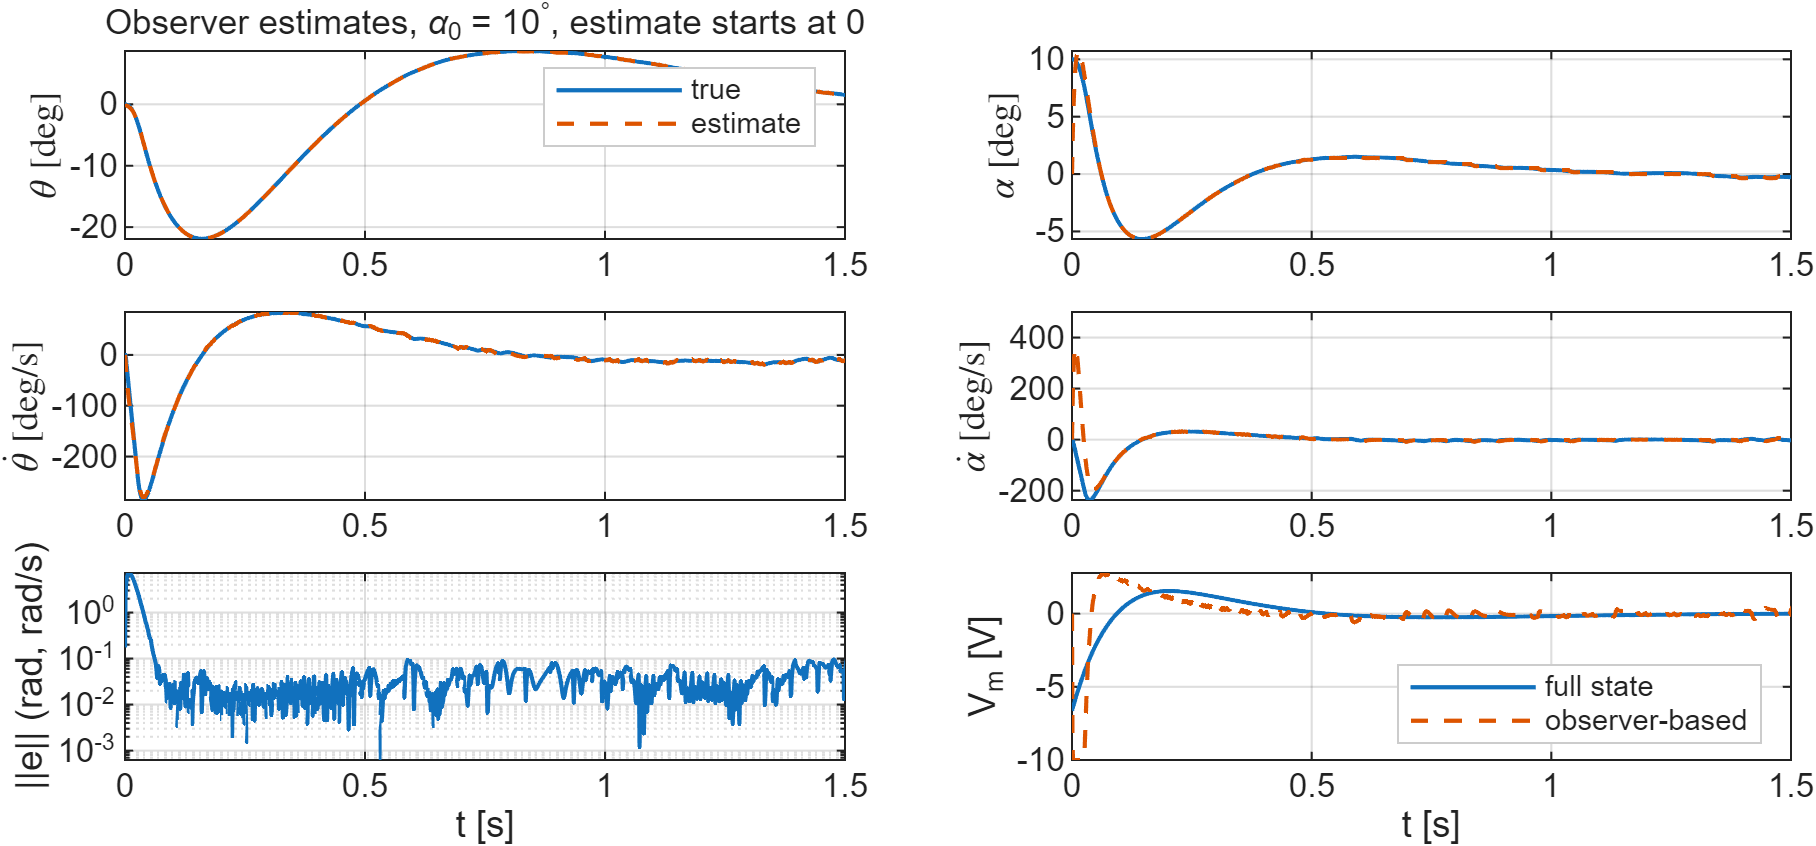
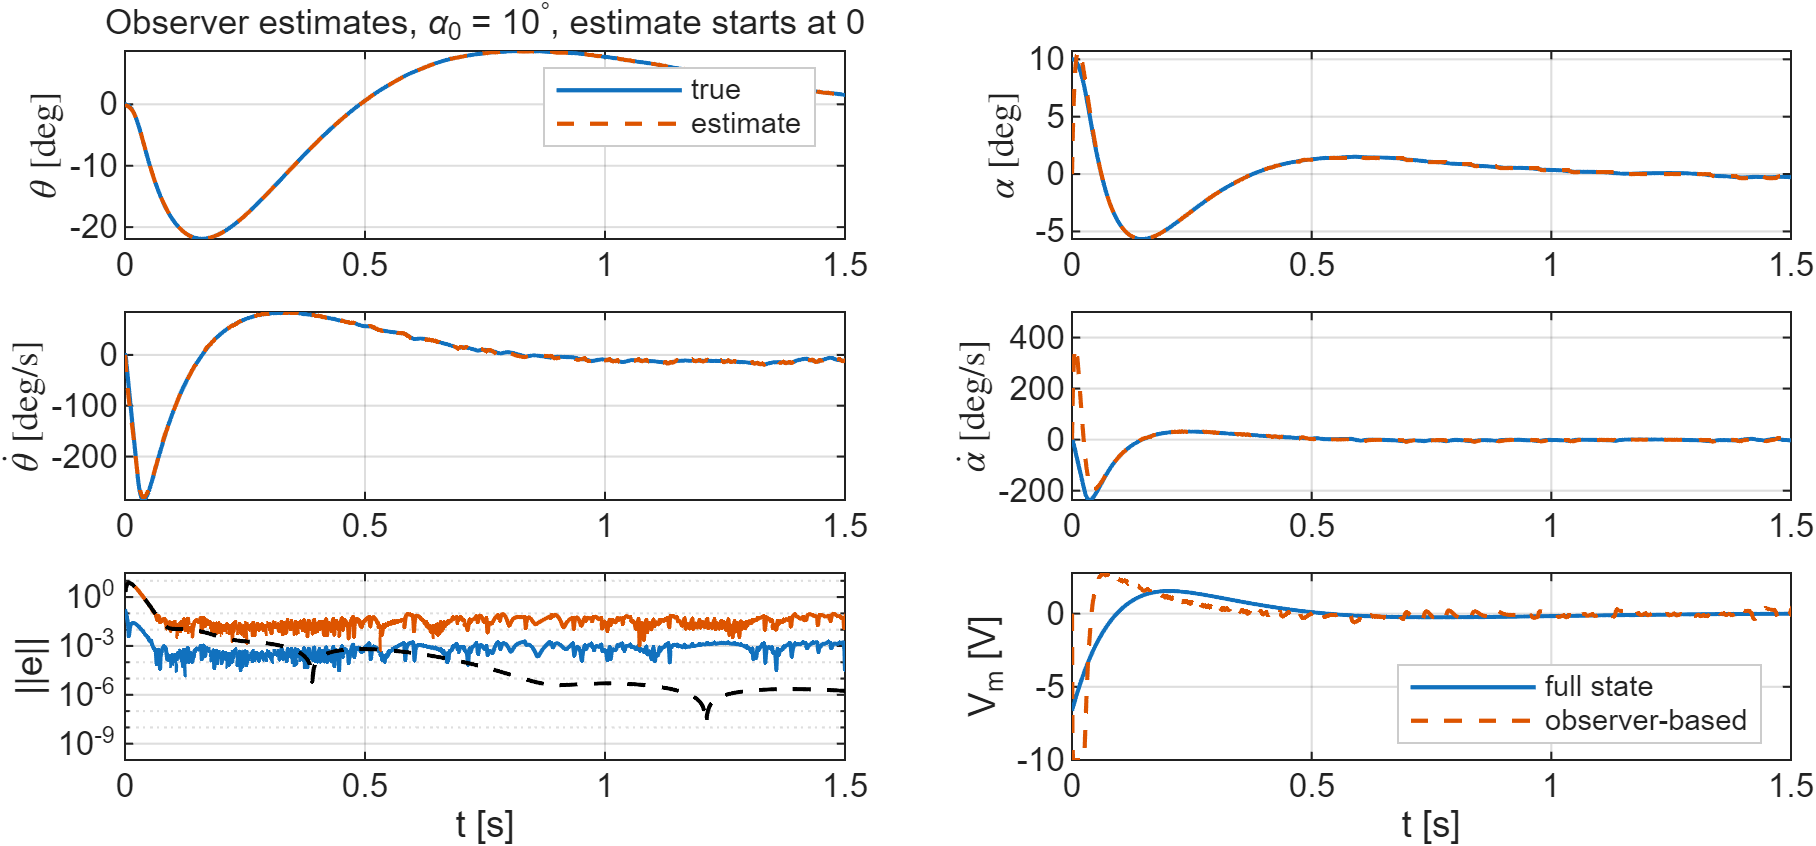
Update logbook, figures, and MATLAB scripts for improved clarity and accuracy; refresh expected results and refine stability margins.

Changed region(s): [[0.0, 0.6454, 0.4626, 0.922]]

diff --git a/report/main.tex b/report/main.tex
@@ -75,7 +75,7 @@ We use the Euler--Lagrange equations of motion derived by G\"afvert~\cite{gafver
 
 % =====================================================================
 \section{System Model}
-The system model is based on the equations of motion given by G\"afvert~\cite{gafvert1998}. The arm angle $\theta$ is measured about the motor shaft and the pendulum angle $\alpha$ is measured from the upright position, so that $\alpha=0$ is the unstable equilibrium (Fig.~\ref{fig:diagram} in the Appendix). The arm is modelled as a uniform rod of mass $m_r$, length $L_r$ and inertia $J_r$ about the motor axis, and the pendulum as a uniform rod of mass $m_p$, length $L_p$, centre-of-mass distance $l_p=L_p/2$ and inertia $J_p$ about its centre of mass. For convenience, the pendulum inertia about its pivot is written as $\bar J_p=J_p+m_pl_p^2$.
+The arm angle $\theta$ is measured about the motor shaft and the pendulum angle $\alpha$ is measured from the upright position, so that $\alpha=0$ is the unstable equilibrium (Fig.~\ref{fig:diagram} in the Appendix). The arm is modelled as a uniform rod of mass $m_r$, length $L_r$ and inertia $J_r$ about the motor axis, and the pendulum as a uniform rod of mass $m_p$, length $L_p$, centre-of-mass distance $l_p=L_p/2$ and inertia $J_p$ about its centre of mass. For convenience, the pendulum inertia about its pivot is written as $\bar J_p=J_p+m_pl_p^2$.
 
 \subsection{Equations of motion}
 The pendulum swings in the plane perpendicular to the arm, and positive $\alpha$ leans against positive arm rotation, so $\alpha$ is measured in the opposite direction to~\cite{gafvert1998}, which reverses the sign of the coupling terms. We assume rigid links, viscous joint friction and negligible motor inductance.
@@ -132,7 +132,7 @@ $k_t, k_m$ & Torque / back-EMF constant & 0.042\,N\,m/A & \cite{xu2023}\\ \hline
 \subsection{Disturbances}
 We model three disturbances: a bump to the pendulum, as a 20\,mN\,m, 20\,ms torque pulse on the pendulum (about a 4.4\,rad/s velocity kick); constant arm drag from the encoder cable or motor friction, as a 2\,mN\,m step; and random unmodelled torques, as sample-held white noise with assumed standard deviations of 0.2 and 0.05\,mN\,m on the arm and pendulum.
 \begin{rw}
-These enter through $\tau_p$ and $\tau_d$ in \eqref{eq:arm}--\eqref{eq:pend}. The pulse represents a firm knock and is the hardest test for the observer, as it only sees the kick in $\alpha$ afterwards. The drag is about 4\% of the 0.05\,N\,m stall torque and a fifth of the 10\,mN\,m Coulomb friction G\"afvert identified on a larger rig~\cite{gafvert1998}. The random torques are assumed, and Section~V-D reports their effect.
+These enter through $\tau_p$ and $\tau_d$ in \eqref{eq:arm}--\eqref{eq:pend}. The pulse represents a firm knock and is the hardest test for the observer, as it only sees the kick in $\alpha$ afterwards. The drag is about 4\% of the 0.05\,N\,m stall torque and a fifth of the 10\,mN\,m Coulomb friction G\"afvert identified on a larger rig~\cite{gafvert1998}. The random torques are assumed. The pulse tests the 15\textdegree{} limit, the drag the steady-state error and the noise the voltage (Section~V-D).
 \end{rw}
 
 \subsection{Sensors and noise}
@@ -170,12 +170,12 @@ which gives the linear model $\dot x=Ax+Bu$, $y=Cx$, with $A=\left[\begin{smallm
 A_{21}&=\frac{m_pgl_p}{\Delta}\begin{bmatrix}0&b\\0&a\end{bmatrix},\quad B_2=\frac{k_t}{R_m\Delta}\begin{bmatrix}\bar J_p\\b\end{bmatrix},\nonumber\\
 A_{22}&=-\frac{1}{\Delta}\begin{bmatrix}\bar J_pd_r&bD_p\\b\,d_r&aD_p\end{bmatrix}.
 \end{align}
-The two encoders measure the arm and pendulum angles only, so $C=[I_2\;\;0_{2\times2}]$ and $D=0$. The regulated output is the arm angle, $z=C_rx$ with $C_r=[1\;\;0\;\;0\;\;0]$. The system therefore has four states but only two measurements, so the angular velocities must be estimated by an observer. Substituting the parameter values, the model becomes
+The two encoders measure the arm and pendulum angles only, so $C=[I_2\;\;0_{2\times2}]$ and $D=0$, and the two velocities must be estimated by an observer. The regulated output is the arm angle, $z=C_rx$ with $C_r=[1\;\;0\;\;0\;\;0]$. Substituting the parameter values, the model becomes
 \begin{equation}
 A=\begin{bmatrix}0&0&1&0\\0&0&0&1\\0&55.15&-2.61&-0.36\\0&168.58&-2.58&-1.11\end{bmatrix},\;
 B=\begin{bmatrix}0\\0\\18.37\\18.16\end{bmatrix}.
 \end{equation}
-The open-loop poles are $0$, $-14.06$, $-1.75$ and $+12.09$\,rad/s. The pole at $+12.09$\,rad/s confirms that the upright equilibrium is unstable, and the pole at the origin reflects that the arm is free to rotate. The transfer function from $V_m$ to $\theta$ also has a right-half-plane zero at $+10.31$\,rad/s: the arm first moves the wrong way, to tip the pendulum in the direction of travel. This limits how fast the arm can be made to track.
+The open-loop poles are $0$, $-14.06$, $-1.75$ and $+12.09$\,rad/s. The pole at $+12.09$\,rad/s confirms that the upright equilibrium is unstable. The transfer function from $V_m$ to $\theta$ also has a right-half-plane zero at $+10.31$\,rad/s: the arm first moves the wrong way, to tip the pendulum in the direction of travel. This limits how fast the arm can be made to track.
 
 \subsection{Design criteria}
 The controller is designed around the following main requirements. The pendulum must recover from a $10^\circ$ displacement to within $1^\circ$ of upright in under 1.5\,s. When the arm is commanded to $30^\circ$, the response must have an overshoot below 5\%, an undershoot below 10\%, a rise time of at least 0.3\,s and a settling time below 2.5\,s. Throughout, the peak motor voltage must stay below 10\,V. The controller must also reject disturbances: after a bump to the pendulum, the pendulum must stay within $15^\circ$ of upright and the arm within $90^\circ$. The $15^\circ$ bound is not the angle at which the pendulum falls; the controller can still catch it beyond this, by moving the arm under the pendulum, provided the motor is not saturated. Under a constant arm drag the final arm angle error must be below $2^\circ$. Finally, the design should remain stable under $\pm20\%$ variations in the model parameters. \begin{rw}Table~\ref{tab:req} lists these alongside the results from Section~V.\end{rw}
@@ -302,20 +302,21 @@ True state & -- & -- & 11.4\textdegree & 1\\
 
 \subsection{Stability ranges and margins}
 \begin{rw}
-Table~\ref{tab:ranges} gives the range of each gain, with the others nominal, over which the sampled linear loop remains stable. Figure~\ref{fig:margins} in the Appendix shows the loop broken at the plant input. As the loop has one unstable open-loop pole, stability requires the Nyquist plot to encircle $-1$ once. The gain can fall to 0.59 times ($-4.6$\,dB) or rise to 6.7 times ($+16.6$\,dB) nominal before instability. The lower limit exists because an unstable plant needs a minimum gain. The phase margin is 36\textdegree{} and the delay margin 29\,ms. With the true state fed back the phase margin is 59\textdegree, hence the observer costs about 23\textdegree{}.
+Table~\ref{tab:ranges} gives the stable range of each gain with the others nominal, and of all gains scaled together; any negative $k_i$ down to $-14.5$ is stable, as $k_i=0$ only leaves the integrator pole at $z=1$. Figure~\ref{fig:margins} in the Appendix shows the loop broken at the plant input. As the loop has one unstable open-loop pole, stability requires the Nyquist plot to encircle $-1$ once. The gain can fall to 0.59 times ($-4.6$\,dB) or rise to 6.7 times ($+16.6$\,dB) nominal before instability. The lower limit exists because an unstable plant needs a minimum gain. The phase margin is 36\textdegree{} and the delay margin 29\,ms. With the true state fed back the phase margin is 59\textdegree, hence the observer costs about 23\textdegree{}.
 \end{rw}
 
 \begin{table}[t]
-\caption{Stable range of each gain (*lowest value tested)}\label{tab:ranges}
+\caption{Stable range of each gain, the others nominal, and of all gains scaled together}\label{tab:ranges}
 \centering\footnotesize
 \begin{tabular}{llll}
 \hline
 Gain & Nominal & Stable range & Multiplier\\ \hline
 $k_\theta$ & $-3.56$ & $-0.92$ to $-8.85$ & 0.26--2.49\\
 $k_\alpha$ & 38.01 & 23.6 to 118 & 0.62--3.11\\
-$k_{\dot\theta}$ & $-1.42$ & $-0.84$ to $-2.61$ & 0.59--1.84\\
-$k_{\dot\alpha}$ & 3.15 & 1.58 to 7.55 & 0.50--2.40\\
-$k_i$ & $-4.51$ & $-0.09$ to $-14.5$ & 0.02*--3.23\\
+$k_{\dot\theta}$ & $-1.42$ & $-0.84$ to $-2.62$ & 0.59--1.84\\
+$k_{\dot\alpha}$ & 3.15 & 1.58 to 7.54 & 0.50--2.40\\
+$k_i$ & $-4.51$ & $0^-$ to $-14.5$ & $0^+$--3.23\\
+All gains & -- & -- & 0.59--6.73\\
 \hline
 \end{tabular}
 \end{table}
@@ -323,7 +324,7 @@ $k_i$ & $-4.51$ & $-0.09$ to $-14.5$ & 0.02*--3.23\\
 % =====================================================================
 \section{Numerical Validations}
 \begin{rw}
-All tests use the nonlinear model \eqref{eq:arm}--\eqref{eq:motor}, integrated with fourth-order Runge--Kutta, with a 1\,kHz controller, zero-order hold, the quantised encoders \eqref{eq:quant} and $\pm10$\,V saturation; Section~V-D adds the random torques.
+All tests use the nonlinear model \eqref{eq:arm}--\eqref{eq:motor}, integrated with fourth-order Runge--Kutta, with a 1\,kHz controller, zero-order hold, the quantised encoders \eqref{eq:quant} and $\pm10$\,V saturation.
 \end{rw}
 
 \begin{figure*}[t]
@@ -336,7 +337,7 @@ All tests use the nonlinear model \eqref{eq:arm}--\eqref{eq:motor}, integrated w
 \begin{rw}
 On the left of Fig.~\ref{fig:overview}, the pendulum is released from 10\textdegree{} with the arm at rest. It is within 1\textdegree{} of upright after 0.97\,s, with the voltage peaking at 6.6\,V and a current of 0.79\,A.
 
-The centre column is the 30\textdegree{} arm step, with $r$ stepping from 0 to 30\textdegree{} at $t=0.5$\,s. Measured from that instant, the 10--90\% rise time is 0.75\,s and the 2\% ($\pm0.6$\textdegree) settling time 1.38\,s. The arm first moves 0.4\textdegree{} the wrong way (1.3\% undershoot), as the right-half-plane zero predicts, and then overshoots by 1.4\%. The pendulum tilts by at most 0.82\textdegree{} and only uses 0.63\,V. The right column is covered in Section~V-D.
+The centre column is the 30\textdegree{} arm step, with $r$ stepping from 0 to 30\textdegree{} at $t=0.5$\,s. Measured from that instant, the 10--90\% rise time is 0.75\,s and the 2\% ($\pm0.6$\textdegree) settling time 1.38\,s. The arm first moves 0.4\textdegree{} the wrong way (1.3\% undershoot), as the right-half-plane zero predicts, and then overshoots by 1.4\%. The pendulum tilts by at most 0.82\textdegree{} and only uses 0.63\,V.
 \end{rw}
 
 \subsection{Linear versus nonlinear model}
@@ -346,7 +347,7 @@ Figure~\ref{fig:linnl} in the Appendix compares the same controller on both mode
 
 \subsection{Estimation error}
 \begin{rw}
-Figure~\ref{fig:obs} in the Appendix tests convergence from the worst-case start, where the pendulum is released from 10\textdegree{} while the observer starts at $\hat x=0$. The angle estimates correct first ($\hat\alpha$ is within 1\textdegree{} after 7\,ms), while the velocity estimates overshoot, because the observer treats the angle error as motion. The error norm peaks at 7.2 after 9\,ms and falls to about 0.04 by 60\,ms, consistent with observer time constants of about 10\,ms. All eigenvalues of $A_d-L_dC$ lie inside the unit circle, so the error would decay to zero, but quantisation sets a noise floor. After 0.2\,s the RMS errors are 0.72 and 1.0\,mrad on the angles, close to $\sigma_v=0.886$\,mrad, and 1.7 and 2.5\textdegree/s on the velocities. This start holds the voltage at the 10\,V limit for 24\,ms, whereas the true state only needs 6.6\,V, hence the other tests initialise $\hat x$ from the first encoder reading.
+Figure~\ref{fig:obs} in the Appendix tests convergence from the worst-case start, where the pendulum is released from 10\textdegree{} while the observer starts at $\hat x=0$. The angle estimates correct first ($\hat\alpha$ is within 1\textdegree{} after 7\,ms), while the velocity estimates overshoot, because the observer treats the angle error as motion. The rate-error norm peaks at 7.2\,rad/s after 9\,ms and falls to about 0.04\,rad/s by 60\,ms, consistent with observer time constants of about 10\,ms. All eigenvalues of $A_d-L_dC$ lie inside the unit circle, so the error converges to zero: with exact encoders the same start gives an error norm of $5\times10^{-6}$ by 1\,s (dashed in Fig.~\ref{fig:obs}). With quantisation it reaches a noise floor: after 0.2\,s the RMS errors are 0.72 and 1.0\,mrad on the angles, close to $\sigma_v=0.886$\,mrad, and 1.7 and 2.5\textdegree/s on the velocities. This start holds the voltage at the 10\,V limit for 24\,ms, whereas the true state only needs 6.6\,V, hence the other tests initialise $\hat x$ from the first encoder reading.
 \end{rw}
 
 \begin{figure}[t]
@@ -357,9 +358,9 @@ Figure~\ref{fig:obs} in the Appendix tests convergence from the worst-case start
 
 \subsection{Disturbances and measurement noise}
 \begin{rw}
-The tap reaches 14.6\textdegree, which is inside the 15\textdegree{} criterion by only 0.4\textdegree, using 9.0\,V and 1.06\,A, and $|\alpha|$ is back below 1\textdegree{} after 1.05\,s. With the true state the peak is 11.4\textdegree, hence the difference comes from the observer's delay in seeing an unmeasured kick. Under arm drag the integrator leaves a mean error of 0.25\textdegree{} (26\textdegree{} without it, Section~IV-B), and 0.05\textdegree{} for the datasheet's maximum 40\,arcmin encoder offset.
+The tap (Fig.~\ref{fig:overview}, right) reaches 14.6\textdegree, which is inside the 15\textdegree{} criterion by only 0.4\textdegree, using 9.0\,V and 1.06\,A, and $|\alpha|$ is back below 1\textdegree{} after 1.05\,s. With the true state the peak is 11.4\textdegree, hence the difference comes from the observer's delay in seeing an unmeasured kick. Under arm drag the integrator leaves a mean error of 0.25\textdegree{} (26\textdegree{} without it, Section~IV-B), and 0.05\textdegree{} for the datasheet's maximum 40\,arcmin encoder offset.
 
-Quantisation has an effect that the linear analysis does not predict. The observer and quantiser form a small limit cycle, with about 0.7\textdegree{} peak-to-peak arm ripple and 0.22\,V RMS. This fits inside the $\pm0.6$\textdegree{} band of a 30\textdegree{} step, but moves the measured settling time from 1.43\,s without quantisation to 1.38\,s, so part of the headline 1.38\,s is due to the ripple. With the random torques added as well, the RMS voltage is 0.22\,V, the RMS pendulum and arm angles are 0.09\textdegree{} and 0.36\textdegree, and the RMS $\da$ estimation error is 2.97\textdegree/s. This voltage noise is feasible, and a slower observer would only reduce it at a cost in robustness.
+The observer and quantiser form a small limit cycle, which the linear analysis does not predict, with about 0.7\textdegree{} peak-to-peak arm ripple and 0.22\,V RMS. This fits inside the $\pm0.6$\textdegree{} band of a 30\textdegree{} step, but moves the measured settling time from 1.43\,s without quantisation to 1.38\,s, so part of the headline 1.38\,s is due to the ripple. With the random torques added as well, the RMS voltage is 0.22\,V, the RMS pendulum and arm angles are 0.09\textdegree{} and 0.36\textdegree, and the RMS $\da$ estimation error is 2.97\textdegree/s. This voltage noise is feasible, and a slower observer would only reduce it at a cost in robustness.
 \end{rw}
 
 \subsection{Parameter uncertainty}
@@ -372,7 +373,7 @@ Figure~\ref{fig:mc} shows 40 plants with all parameters randomly varied by $\pm2
 \begin{rw}
 The Furuta pendulum is a nonlinear, under-actuated benchmark whose upright position requires continuous feedback. We showed that an LTI observer-based controller, designed by pole placement, stabilises the full nonlinear model at 1\,kHz within voltage limits, using only two quantised encoders. It recovers from 10\textdegree{} in 0.97\,s, tracks a 30\textdegree{} step with 1.4\% overshoot and 1.38\,s settling, and has margins of $-4.6$/$+16.6$\,dB and 36\textdegree, meeting all nominal criteria with 0.4\textdegree{} to spare on the tap limit. It catches tilts of up to 24\textdegree, but only 38 of 40 plants with $\pm20$\% parameters recover and 31 survive the tap, so the uncertainty criterion is only partly met. Testing revealed a double-counted reference, the cost of a slow observer and a quantisation limit cycle.
 
-Future work should measure the damping and arm inertia on hardware, add Coulomb friction, and estimate the disturbance torque in the observer. Energy-based swing-up \cite{astrom1996} would also extend the operating range to the full circle.
+Future work should measure the damping (the least certain parameter) and arm inertia on hardware, add Coulomb friction, which the linear design ignores, and estimate the disturbance torque in the observer to recover the 3.2\textdegree{} it costs on the tap. Energy-based swing-up \cite{astrom1996} would also extend the operating range to the full circle.
 \end{rw}
 
 % Appendix figures (Section A): defined here so they can float to the top of page 7.
@@ -403,7 +404,7 @@ Figure~\ref{fig:diagram} shows the geometry used in Section~II, Figs.~\ref{fig:m
 
 \begin{figure*}[t]
 \centering\includegraphics[width=0.84\textwidth]{w11_observer_convergence.png}
-\caption{Observer convergence with $\alpha_0=10^\circ$ and $\hat x(0)=0$. Top and middle: true and estimated $\theta$, $\alpha$, $\dot\theta$, $\dot\alpha$. Bottom left: estimation-error norm (log scale). Bottom right: motor voltage, feeding back the true state and the estimate.}
+\caption{Observer convergence with $\alpha_0=10^\circ$ and $\hat x(0)=0$. Top and middle: true and estimated $\theta$, $\alpha$, $\dot\theta$, $\dot\alpha$. Bottom left: error norms (log scale) of the angles (blue, rad) and rates (orange, rad/s), and of the rates with exact encoders (dashed). Bottom right: motor voltage, feeding back the true state and the estimate.}
 \label{fig:obs}
 \end{figure*}
 

diff --git a/matlab/week11_observer.m b/matlab/week11_observer.m
@@ -47,6 +47,10 @@ fprintf('Largest |z| of closed loop = %.5f (< 1 => stable)\n', max(abs(z_all)));
 x0 = [0; deg2rad(10); 0; 0];
 S_obs = furuta_sim_obs(P, D, x0, 4, struct('xhat0', zeros(4,1)));
 S_fs  = furuta_sim_obs(P, D, x0, 4, struct('full_state', true));
+S_nq  = furuta_sim_obs(P, D, x0, 4, struct('xhat0', zeros(4,1), 'quant', false));   % same start, exact encoders
+enq = vecnorm(S_nq.e, 2, 2);
+fprintf('\nWithout quantisation: |e| = %.2g at 0.2 s, %.2g at 1 s, %.2g at 4 s (converges to zero)\n', ...
+        enq(find(S_nq.t >= 0.2, 1)), enq(find(S_nq.t >= 1, 1)), enq(end));
 en = vecnorm(S_obs.e, 2, 2); e0 = en(1); [epk, kpk] = max(en);
 wf = S_obs.t >= 0.2;                       % after the start-up transient: quantisation noise floor
 floor_e = median(en(wf));
@@ -75,8 +79,12 @@ for i = 1:4
     ylabel(lbl{i}, 'Interpreter', 'latex'); xlim([0 1.5]);
     if i == 1, legend('true', 'estimate'); title('Observer estimates, \alpha_0 = 10^\circ, estimate starts at 0'); end
 end
-subplot(3, 2, 5); semilogy(S_obs.t, vecnorm(S_obs.e, 2, 2)); grid on; xlim([0 1.5]);
-ylabel('||e|| (rad, rad/s)'); xlabel('t [s]'); yticks([1e-3 1e-2 1e-1 1]);
+subplot(3, 2, 5);
+semilogy(S_obs.t, vecnorm(S_obs.e(:,1:2), 2, 2), S_obs.t, vecnorm(S_obs.e(:,3:4), 2, 2), ...
+         S_nq.t, vecnorm(S_nq.e(:,3:4), 2, 2), 'k--'); grid on; xlim([0 1.5]); ylim([1e-10 30]);
+ylabel('||e||'); xlabel('t [s]'); yticks([1e-9 1e-6 1e-3 1]);
+% No legend (it hides the curves); the report caption names them: blue angles [rad], orange rates [rad/s],
+% dashed rates with exact encoders.
 subplot(3, 2, 6); plot(S_fs.t, S_fs.u, S_obs.t, S_obs.u, '--'); grid on; xlim([0 1.5]);
 ylabel('V_m [V]'); xlabel('t [s]'); legend('full state', 'observer-based', 'Location', 'southeast');
 furuta_savefig(gcf, 'w11_observer_convergence', 7.16, 2.9);

diff --git a/matlab/week12_margins.m b/matlab/week12_margins.m
@@ -49,7 +49,7 @@ furuta_savefig(gcf, 'w12_margins', 7.16, 2.4);
 %% 3. Range of each controller parameter that keeps the sampled linear loop stable
 rho = @(Kx_, Ki_, g) max(abs(eig([Ad, -g*Bd*Ki_, -g*Bd*Kx_; Ts*Ct, 1, zeros(1,4); ...
                                   L*C, -Bd*Ki_, Ad - Bd*Kx_ - L*C])));
-grid_ = logspace(log10(0.02), log10(50), 4000);
+grid_ = logspace(-4, log10(50), 6000);     % down to 1e-4 x nominal, so k_i's lower limit is found, not truncated
 [~, i1] = min(abs(grid_ - 1));
 names = {'k_theta', 'k_alpha', 'k_thetadot', 'k_alphadot', 'k_i', 'plant-input gain'};
 fprintf('\nStable multiplier range, one parameter varied, others nominal (nominal = 1):\n');

diff --git a/docs/LOGBOOK.md b/docs/LOGBOOK.md
@@ -443,3 +443,17 @@ AI-assisted: merge and fit.
   - a full `README.txt` (`report/package_README.txt`: requirements, steps, fixed seeds, and which script reproduces each figure, table and equation);
   - `expected_results.txt`.
 - **Clean run:** unzipped into an empty folder and ran `run_all` there. Exit 0 in 267 s, 14 figures, and every number matches the report (V1–V9, margins, gain ranges, Step 7, observer gain). That console output is `report/expected_results.txt`.
+
+### Second marking with Gemini (agy) and fixes
+
+- **Process:** an anonymised PDF (no names) was marked by `gemini-3.8-flash-medium` through the antigravity_cli skill, after a blind Claude mark of 89/100 (`scratch/agy_mark/`). Gemini gave 87/100. Every disagreement was checked against the report.
+- **Fixes:**
+  - **Table V:** the k_i lower limit was an artefact of the search grid starting at 0.02 × nominal. Any negative k_i down to −14.5 is stable (`week12_margins` grid now starts at 1e-4). A row for all gains scaled together (×0.59–6.73) answers the "one gain at a time" criticism.
+  - **V-C and Fig. 6:** with exact encoders the estimation error converges to zero (5×10⁻⁶ at 1 s, 8×10⁻¹⁶ at 4 s; dashed in Fig. 6). Angle and rate error norms are plotted separately, in their own units.
+  - **II-D:** says what each disturbance tests.
+  - **VI:** each future-work item now has a reason.
+  - **Space:** recovered from statements made twice.
+- **Package:** clean-folder `run_all` repeated (exit 0, 297 s); `report/expected_results.txt` refreshed; Table V limits updated to the finer grid (k_θ̇ −2.62, k_α̇ 7.54).
+- **antigravity_cli skill:**
+  - **Liveness:** per-run heartbeat status, logs kept, `died` exit code 8, process-tree kill on timeout, and `agy_status.py`.
+  - **Errors:** real failure reasons are reported, so the output-token limit was found behind the earlier exit-3 failures; the wrapper retries with a shorter-answer request.
